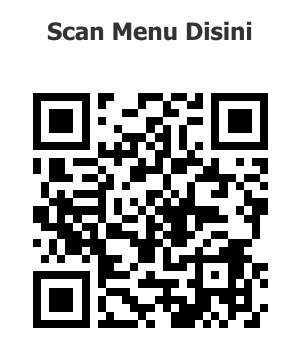
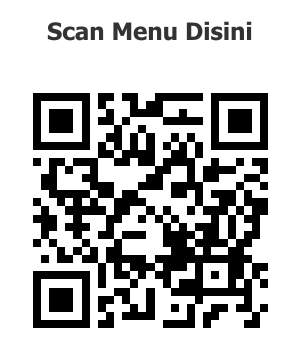
daftarpesanan baru

Changed region(s): [[0.3, 0.2571, 0.84, 0.9429], [0.09, 0.4571, 0.27, 0.7714]]

diff --git a/controllers/pesananController.js b/controllers/pesananController.js
@@ -3,8 +3,20 @@ const { Pesanan, Meja, Keranjang, Menu } = require("../models");
 const { Op } = require("sequelize");
 
 // ✅ ADMIN - Menampilkan semua pesanan
+// ✅ ADMIN - Menampilkan semua pesanan (dengan pagination benar)
 exports.getAllPesanan = async (req, res) => {
   try {
+    const limit = 10;
+    const page = parseInt(req.query.page) || 1;
+    const offset = (page - 1) * limit;
+
+    // ✅ Hitung total pesanan unik (bukan hasil join keranjang)
+    const totalPesanan = await Pesanan.count({
+      distinct: true,
+      col: "id_pesanan",
+    });
+
+    // ✅ Ambil data berdasarkan halaman
     const pesanan = await Pesanan.findAll({
       include: [
         { model: Meja, attributes: ["id_meja", "no_meja"] },
@@ -14,18 +26,31 @@ exports.getAllPesanan = async (req, res) => {
         },
       ],
       order: [["tanggal_pesan", "DESC"]],
+      limit,
+      offset,
     });
+
+    const totalPages = Math.ceil(totalPesanan / limit);
+
+    // ✅ Jika page > totalPages, kembalikan ke halaman terakhir
+    if (page > totalPages && totalPages > 0) {
+      return res.redirect(`/admin/daftar-pesanan?page=${totalPages}`);
+    }
 
     res.render("pesanan", {
       user: req.session.user,
       title: "Daftar Pesanan",
       pesanan,
+      currentPage: page,
+      totalPages,
     });
   } catch (err) {
     console.error("❌ Error getAllPesanan:", err);
     res.status(500).send("Gagal memuat daftar pesanan");
   }
 };
+
+
 
 // ✅ ADMIN - Update status pesanan
 exports.updateStatus = async (req, res) => {

diff --git a/utils/generateQrMeja.js b/utils/generateQrMeja.js
@@ -5,7 +5,7 @@ const fs = require('fs');
 const path = require('path');
 
 async function generateQrMeja(no_meja, outputDir) {
-  const menuUrl = `http://10.44.8.101:3000/menu?meja=${no_meja}`;
+  const menuUrl = `http://192.168.1.26:3000/menu?meja=${no_meja}`;
   const qrFile = `meja-${no_meja}.png`;
   const qrPath = path.join(outputDir, qrFile);
   const qrRelativePath = `/uploads/qrcode/${qrFile}`;
